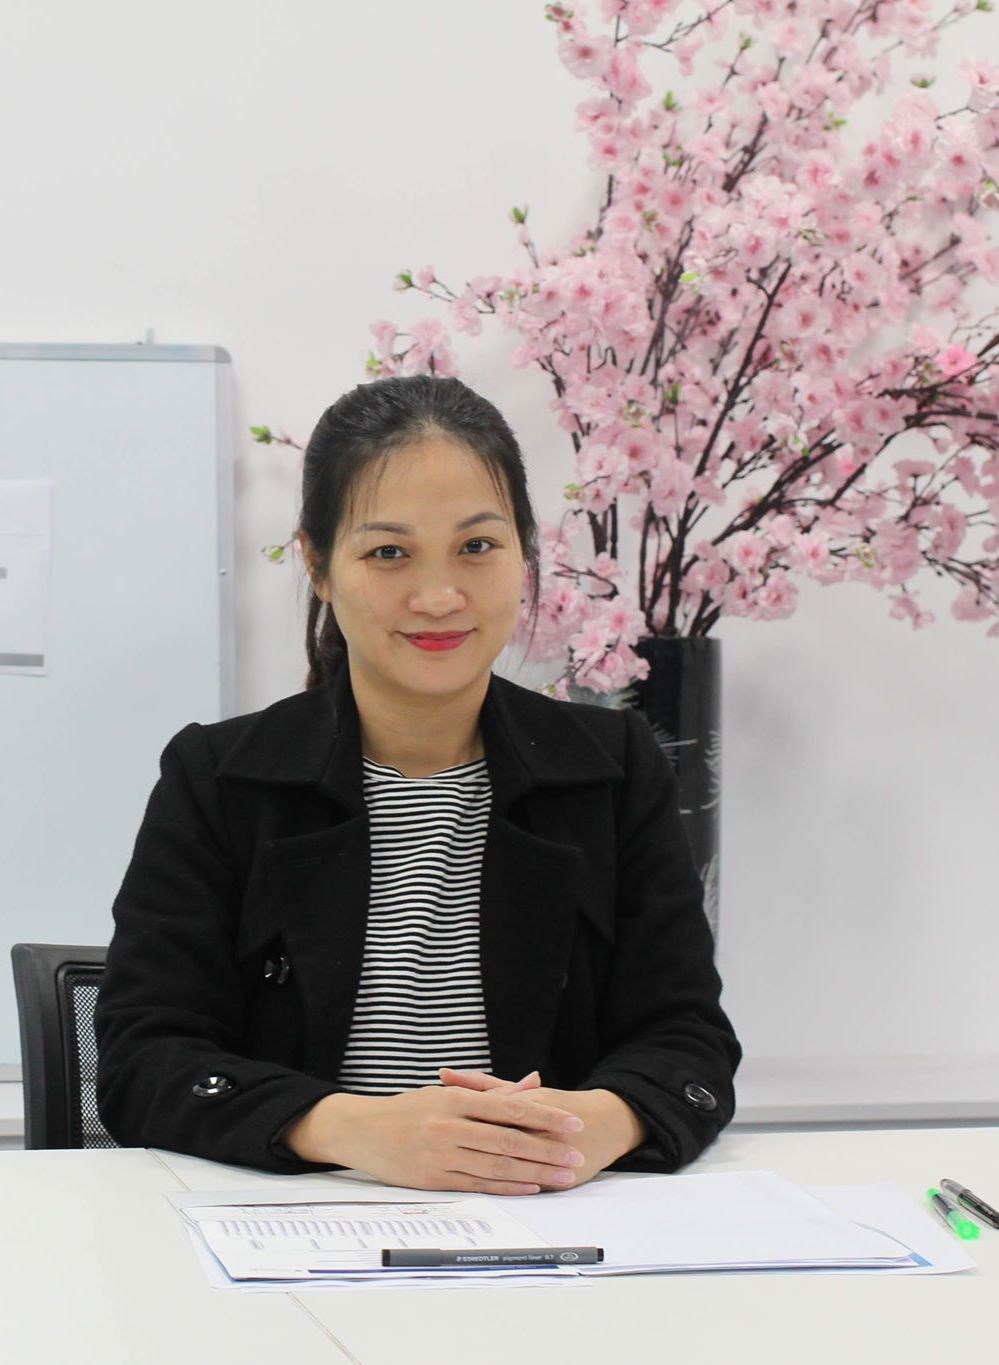
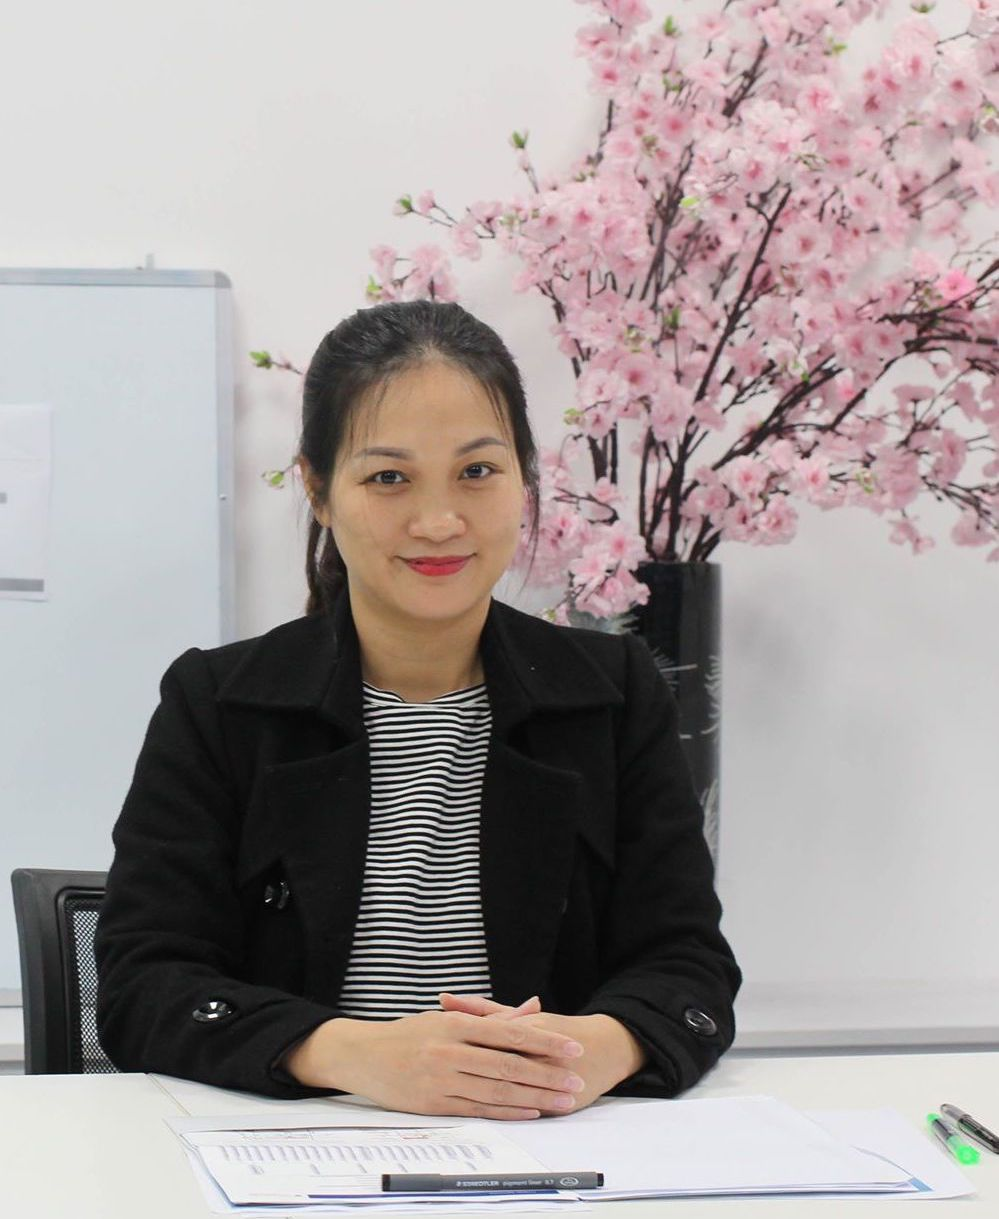
fix

diff --git a/company-profile.html b/company-profile.html
@@ -120,7 +120,7 @@
                 </div>
                 <div class="company-container" style="padding-bottom: 15px; padding-top: 15px">
                     <div class="company-left-profile-2" style="text-align: center">
-                        <img src="images/leader.png" alt="" style="display: inline-block">
+                        <img src="images/leader.jpg" alt="" style="display: inline-block">
                         <div style="text-align: center">
                             チームリーダ <br>
                             Dang Thi Lan Phuong
